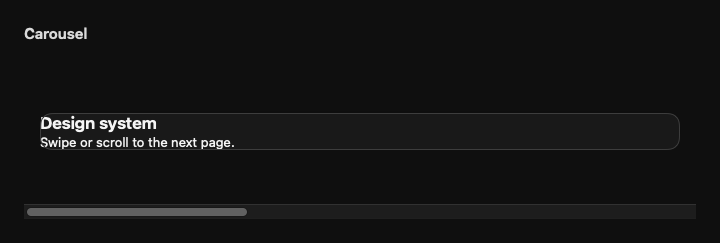
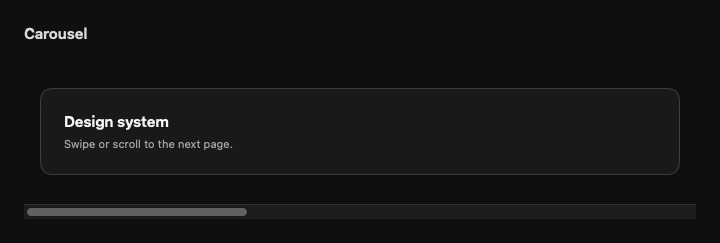
Review polished card references and settle native carousel capture

Changed region(s): [[0.0306, 0.4609, 0.9472, 0.6337], [0.0611, 0.6914, 0.9472, 0.7202], [0.0611, 0.3457, 0.9472, 0.3745]]

diff --git a/Tests/SwiftCNVisualTests/ComponentCatalogVisualTests.swift b/Tests/SwiftCNVisualTests/ComponentCatalogVisualTests.swift
@@ -52,6 +52,11 @@ struct ComponentCatalogVisualTests {
             pinCarouselScrollers(host)
         }
         RunLoop.main.run(until: Date(timeIntervalSinceNow: 0.08))
+        if component == .carousel {
+            // SwiftUI can install the native scroll view during the first run-loop turn.
+            pinCarouselScrollers(host)
+            RunLoop.main.run(until: Date(timeIntervalSinceNow: 0.08))
+        }
         // Stop native indeterminate indicators at a reproducible frame; behavior tests cover state.
         stopIndicators(host)
         host.layoutSubtreeIfNeeded()
